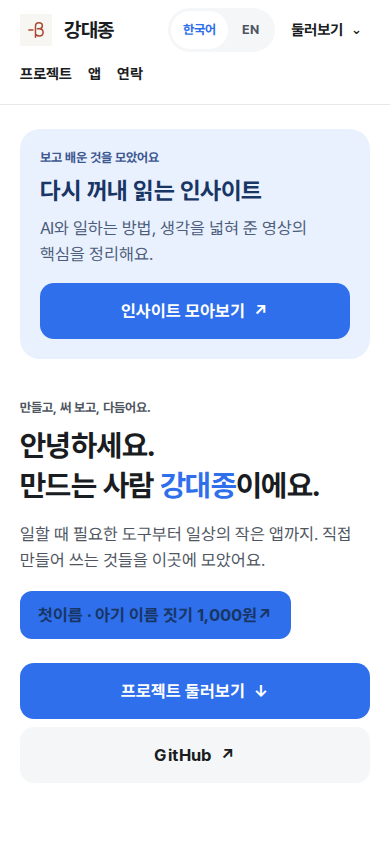
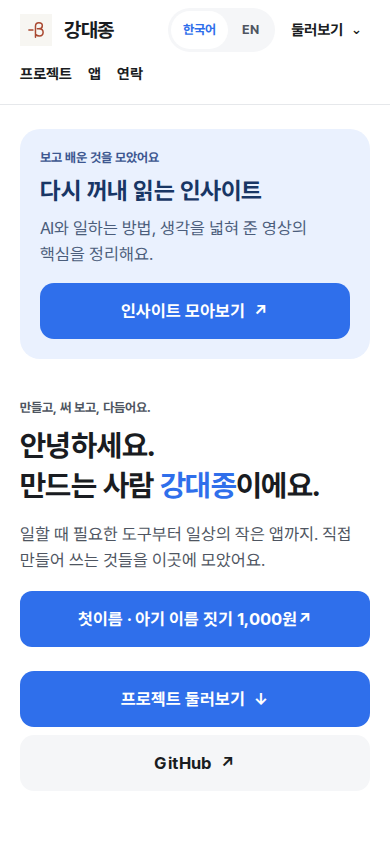
fix: 회사 홈 첫이름 버튼 글자를 흰색으로 맞춘다 (T-261029-025)
바탕은 accent-cta, 글자는 cta-fg 만 쓴다. #fff 대체값을 뺀다.
너비는 100%이고 높이는 프로젝트 둘러보기 버튼과 같은 공용 톤이다.

Changed region(s): [[0.0308, 0.6777, 0.9538, 0.9242]]

diff --git a/src/styles/home-simple.css b/src/styles/home-simple.css
@@ -17,9 +17,9 @@ html:has(.simple-home){background:var(--bg);scroll-padding-top:calc(var(--mb-hea
 .simple-home .intro-label{margin:0 0 var(--tone-space-1);color:var(--fg-dim);font:var(--tone-weight-bold) var(--tone-caption-size)/var(--tone-caption-line) var(--tone-font)}
 .simple-home .intro h1{margin:0 0 var(--tone-space-3)}
 .simple-home .intro-description{margin:0 0 var(--tone-space-3);color:var(--fg-dim);font-size:var(--tone-body-size);line-height:var(--tone-body-line);word-break:keep-all}
-/* T-261029-025: 설명 바로 아래, .intro-links 앞. 높이·여백·모서리는 이번 지시의 고정값이라 tone:fixed. */
-.simple-home a.intro-cta,.simple-home a.intro-cta:hover{display:inline-flex;align-items:center;box-sizing:border-box;max-width:100%;background:var(--accent-cta);color:var(--accent-text,#fff);font-weight:700;height:48px;padding:0 18px;border-radius:12px} /* tone:fixed: 직행 버튼 높이 48px·가로 안쪽 18px·모서리 12px(T-261029-025 지시) */
-.simple-home a.intro-cta:hover{background:var(--accent-hover);color:var(--accent-text,#fff)}
+/* T-261029-025: 설명 바로 아래, .intro-links 앞. 글자색은 --cta-fg 만. 높이는 프로젝트 둘러보기(.mb-btn)와 같은 공용 버튼. */
+.simple-home a.intro-cta,.simple-home a.intro-cta:hover{display:flex;align-items:center;justify-content:center;box-sizing:border-box;width:100%;max-width:100%;min-height:var(--tone-control-height);background:var(--accent-cta);color:var(--cta-fg);font-weight:700;font-size:var(--tone-body-size);padding:0 18px;border-radius:12px} /* tone:fixed: 직행 버튼 가로 안쪽 18px·모서리 12px(T-261029-025 지시) */
+.simple-home a.intro-cta:hover{background:var(--accent-hover);color:var(--cta-fg)}
 .simple-home .intro-cta-row{margin-top:18px} /* tone:fixed: 설명과 직행 버튼 간격 18px(T-261029-025 지시) */
 .simple-home .intro-links{display:flex;flex-direction:column;gap:var(--tone-space-1);margin-top:var(--tone-space-4)}
 /* 구역(첫이름 landing section): 56px 간격, 작은 라벨 → 제목(32px 아래) → 카드(24px 아래). */
